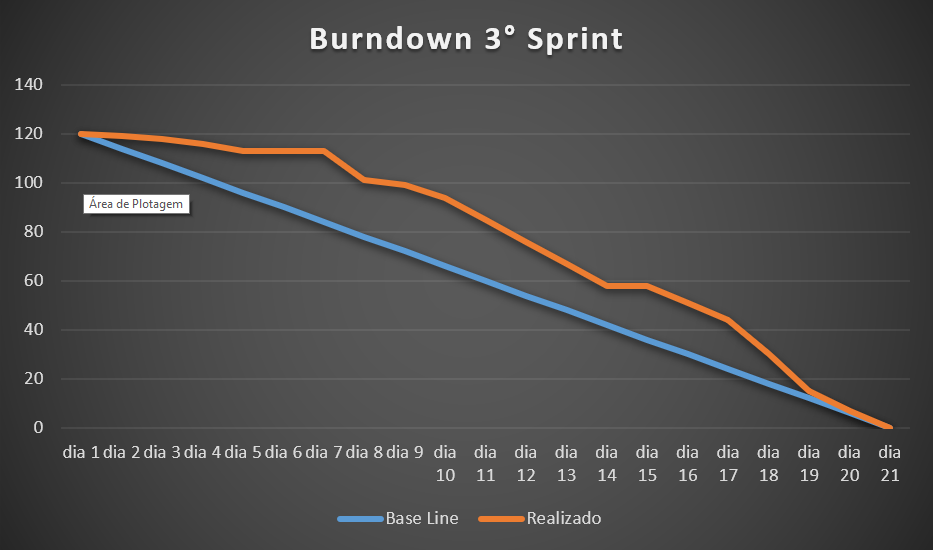
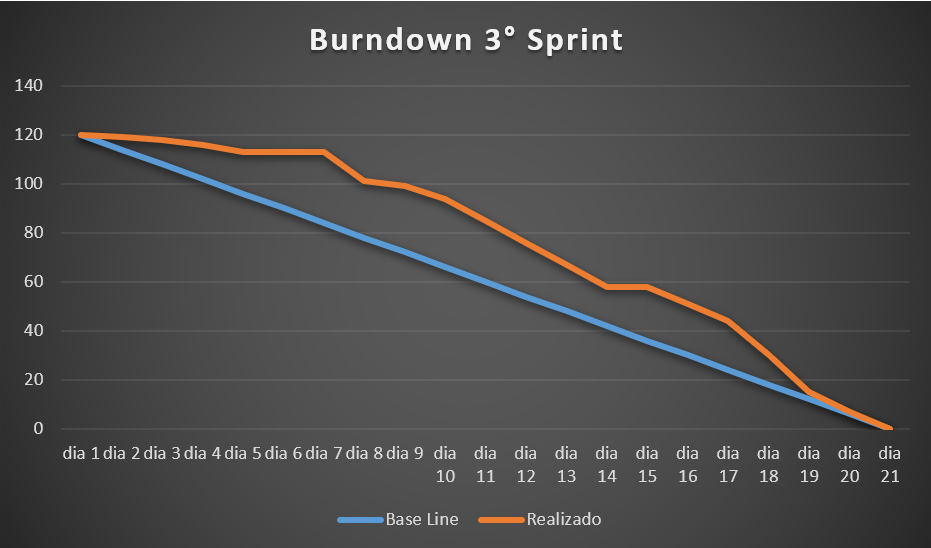
Refeito upload imagem do burndown

diff --git a/README.md b/README.md
@@ -71,7 +71,7 @@ Visualização Geral de Ofertas:
 
 
 <h1 align="center">
-<img src = "./gif/Burndown3.png"></h1>
+<img src = "./gif/burndown3.png"></h1>
 <br>
 
 
